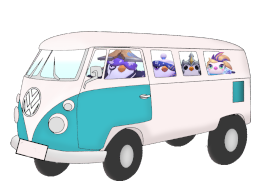
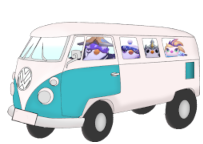
animations update

Changed region(s): [[0.0296, 0.1389, 1.0, 1.0], [0.0887, 0.6667, 0.1478, 0.7222], [0.2069, 0.7222, 0.2365, 0.75]]

diff --git a/src/components/Container/Container.tsx b/src/components/Container/Container.tsx
@@ -2,7 +2,7 @@ import { LittleLegend } from "../LittleLegend/LittleLegend";
 
 export function Container () {
     return (
-        <main className="flex flex-1 w-full items-center justify-center">
+        <main className="flex flex-1 w-full items-end justify-center">
             <LittleLegend image="https://raw.githubusercontent.com/phenriquep00/hasty/main/public/Featherknight_Spirit_Blossom_Kami_Tier_1.png"/>
             <LittleLegend image="https://raw.githubusercontent.com/phenriquep00/hasty/main/public/Featherknight_Pengu_Tier_2.png"/>
             <LittleLegend image="https://raw.githubusercontent.com/phenriquep00/hasty/main/public/Featherknight_Spirit_Blossom_Yokai_Tier_2.png"/>

diff --git a/src/components/Header/Header.tsx b/src/components/Header/Header.tsx
@@ -1,11 +1,12 @@
 export function Header() {
   return (
-    <header className="flex w-full items-center justify-center mt-2 h-[20%] text-4xl font-black z-10">
+    <header className="flex w-full gap-10 items-center justify-center mt-2 h-[15%] text-4xl font-black z-10 animate-header">
       <img
-        src="https://raw.githubusercontent.com/phenriquep00/hasty/main/public/Kombi_2.png"
-        className="animate-header"
+        src="/Kombi_2.png"
+        className=""
         alt=""
       />
+      <h1 className="font-black text-6xl ">Kombi gaming</h1>
     </header>
   );
 }

diff --git a/src/components/LittleLegend/LittleLegend.tsx b/src/components/LittleLegend/LittleLegend.tsx
@@ -4,8 +4,8 @@ interface ILittleLegend {
 
 export function LittleLegend({image}: ILittleLegend) {
     return (
-        <div>
+        <button className="hover:scale-125 z-20 transition-transform ease-in-out duration-200">
             <img className="animate-littleLegends" src={image} alt="little legend" />
-        </div>
+        </button>
     )
 }

diff --git a/src/App.tsx b/src/App.tsx
@@ -6,7 +6,7 @@ function App() {
 
 
   return (
-    <div className="flex flex-1 items-center justify-between text-white gap-2 flex-col h-screen">
+    <div className="flex flex-1 items-center justify-between text-white gap-2 flex-col h-screen overflow-hidden">
       <Header />
       <Container />
       <Footer />

diff --git a/src/components/Footer/Footer.tsx b/src/components/Footer/Footer.tsx
@@ -1,6 +1,6 @@
 export function Footer() {
     return (
-        <footer className="flex w-full items-center justify-center mb-2 h-[20%] text-4xl font-black">
+        <footer className="flex w-full items-center justify-center mb-2 h-[15%] text-4xl font-black">
             footer
         </footer>
     )
